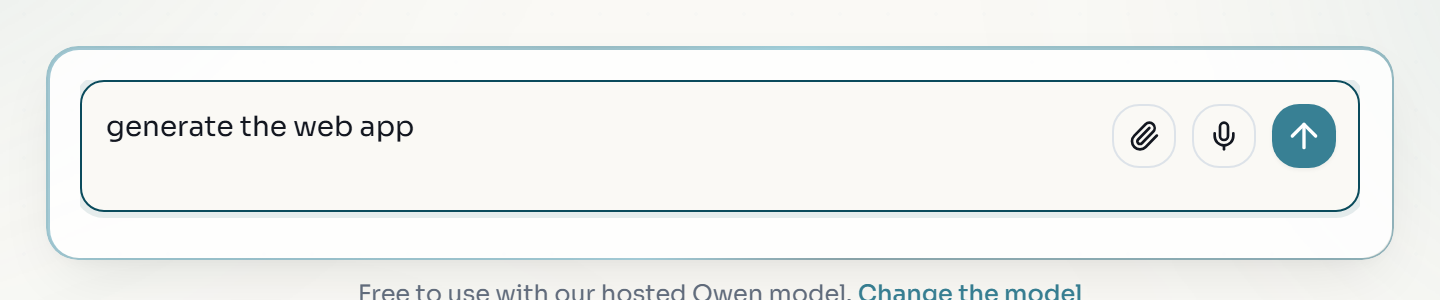
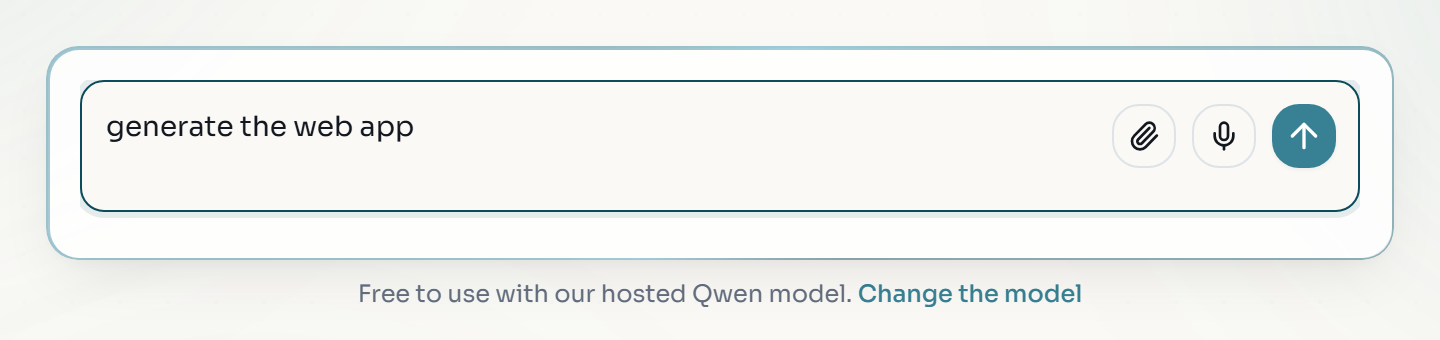
feat: add Model it / Describe it start paths and workshop contact
The home page offers the editor's two starting choices: Lab 1 for
learning modeling, Lab 4 for building by description with no modeling
background. Lab 4 no longer requires Lab 1 and explains how to read a
class diagram. The home and teaching pages invite instructors to request
a talk and hands-on workshop, and the teaching page adds a sequence for
students without modeling experience. Fix three badly cropped Lab 5
screenshots.

diff --git a/src/content/labs/modeling-assistant/index.md b/src/content/labs/modeling-assistant/index.md
@@ -8,26 +8,26 @@ level: Beginner
 setup: [Browser]
 needs:
   - A modern desktop browser (Chrome, Edge or Firefox)
-  - Lab 1 (Your first class diagram) or equivalent familiarity with the editor canvas
+  - No modeling experience (the lab explains what you see on the canvas)
 outcomes:
   - Start a project in the Describe it (agentic) interface
   - Create a class diagram from a plain-language description
   - Refine a model with follow-up prompts and undo an assistant edit with Ctrl+Z
   - Verify what the assistant changed on the canvas and with Quality Check
   - Add a state machine and trigger a code generator from the chat
-before: [first-model]
+before: []
 files: []
 updated: 2026-10-02
 version: "8.0"
 draft: false
 ---
 
-In Lab 1 you drew every class and association by hand. The Web Modeling Editor also has an agentic interface: you describe what you want in plain words, and the Modeling Assistant creates and edits the diagrams on the live canvas. The diagrams it produces are ordinary B-UML models, so everything you learned on the canvas still applies, and you can switch between chatting and drawing at any time.
+This is the lab to start with if you want to build software with BESSER without learning modeling first. The Web Modeling Editor has an agentic interface: you describe what you want in plain words, and the Modeling Assistant creates and edits the diagrams for you on a live canvas. Those diagrams are the model BESSER generates code from, so you only need to read them, not draw them. If you later want to draw them yourself, [Lab 1](/labs/first-model/) shows how, and you can switch between chatting and drawing at any time.
 
 In this lab you model a small clinic: patients book appointments with doctors. You build the class diagram by conversation, refine it, add a rule, add a state machine for the appointment lifecycle, and generate a PostgreSQL schema, all from the chat. Throughout, you check the result yourself instead of trusting the reply.
 
 :::note
-The assistant runs on a separate BESSER service. On [editor.besser-pearl.org](https://editor.besser-pearl.org) it is hosted for you and needs no API key or account; requests are rate limited per browser tab. Your messages and a snapshot of the current project are sent to that service so it can answer. The project itself stays in your browser's storage, as in Lab 1. Do not paste personal or confidential data into the chat.
+The assistant runs on a separate BESSER service. On [editor.besser-pearl.org](https://editor.besser-pearl.org) it is hosted for you and needs no API key or account; requests are rate limited per browser tab. Your messages and a snapshot of the current project are sent to that service so it can answer. The project itself stays in your browser's storage. Do not paste personal or confidential data into the chat.
 :::
 
 ## Start a project in Describe it mode
@@ -70,7 +70,7 @@ The wording of the reply, the attribute names and the layout differ from run to 
 :::
 
 :::troubleshoot
-**The reply says "I had a bit of trouble building everything at once, but I set up 3 item(s)..." and each class only has `+ id: str`.** The assistant fell back to placeholder classes because its language-model call failed on the server. The same happens if every follow-up returns "I couldn't process that modification. Please try again or rephrase your request." This is a service problem, not a problem with your prompt. Wait a few minutes and click :ui[New Chat] to try again, or continue the lab on the canvas: add the attributes and associations by hand as in [Lab 1](/labs/first-model/), then come back to the chat for the later steps.
+**The reply says "I had a bit of trouble building everything at once, but I set up 3 item(s)..." and each class only has `+ id: str`.** The assistant fell back to placeholder classes because its language-model call failed on the server. The same happens if every follow-up returns "I couldn't process that modification. Please try again or rephrase your request." This is a service problem, not a problem with your prompt. Wait a few minutes and click :ui[New Chat] to try again, or continue the lab on the canvas: add the attributes and associations by hand as shown in [Lab 1](/labs/first-model/), then come back to the chat for the later steps.
 :::
 
 :::checkpoint
@@ -86,7 +86,11 @@ The assistant edits the model you see on the canvas. Look at the canvas after ev
    - There are three classes: `Patient`, `Doctor` and `Appointment`, each with several typed attributes.
    - There is an association between `Patient` and `Appointment` with a many end (`*` or `0..*`) on the Appointment side.
    - There is an association between `Appointment` and `Doctor` with multiplicity `1` on the Doctor side.
-3. Double-click an association to open its properties and read the exact multiplicities, as you did in Lab 1.
+3. Double-click an association to open its properties and read the exact multiplicities.
+
+:::note[New to class diagrams?]
+Each box is a **class**: a kind of thing your application stores, such as a patient. The lines inside the box are its **attributes**, the data kept for each one, written `name: type` (for example `+ birth_date: date`). A line between two boxes is an **association**: the things are related. The numbers at each end are **multiplicities**. They say how many: `1` means exactly one, `*` or `0..*` means any number. So `Appointment 0..*` next to `Patient 1` reads "a patient has any number of appointments, and each appointment belongs to exactly one patient". That is all you need to read what the assistant builds.
+:::
 
 <!-- TODO screenshot: the clinic class diagram on the canvas after Review the model, showing Patient, Doctor, Appointment and both associations (clinic-class-diagram.png). -->
 
@@ -208,7 +212,7 @@ Two short prompts work better than one long one: first create the class and its 
 :::
 
 :::exercise[Compare chat and canvas]
-Rebuild the same three-class clinic model by hand on the canvas in a second project, as in Lab 1. Export both projects as B-UML (:ui[File > Export Project], then :ui[Export as B-UML]) and compare the two Python files. Which differences come from the assistant's choices (names, types, multiplicities) and which are only layout?
+Rebuild the same three-class clinic model by hand on the canvas in a second project, following [Lab 1](/labs/first-model/). Export both projects as B-UML (:ui[File > Export Project], then :ui[Export as B-UML]) and compare the two Python files. Which differences come from the assistant's choices (names, types, multiplicities) and which are only layout?
 :::
 
 :::solution
